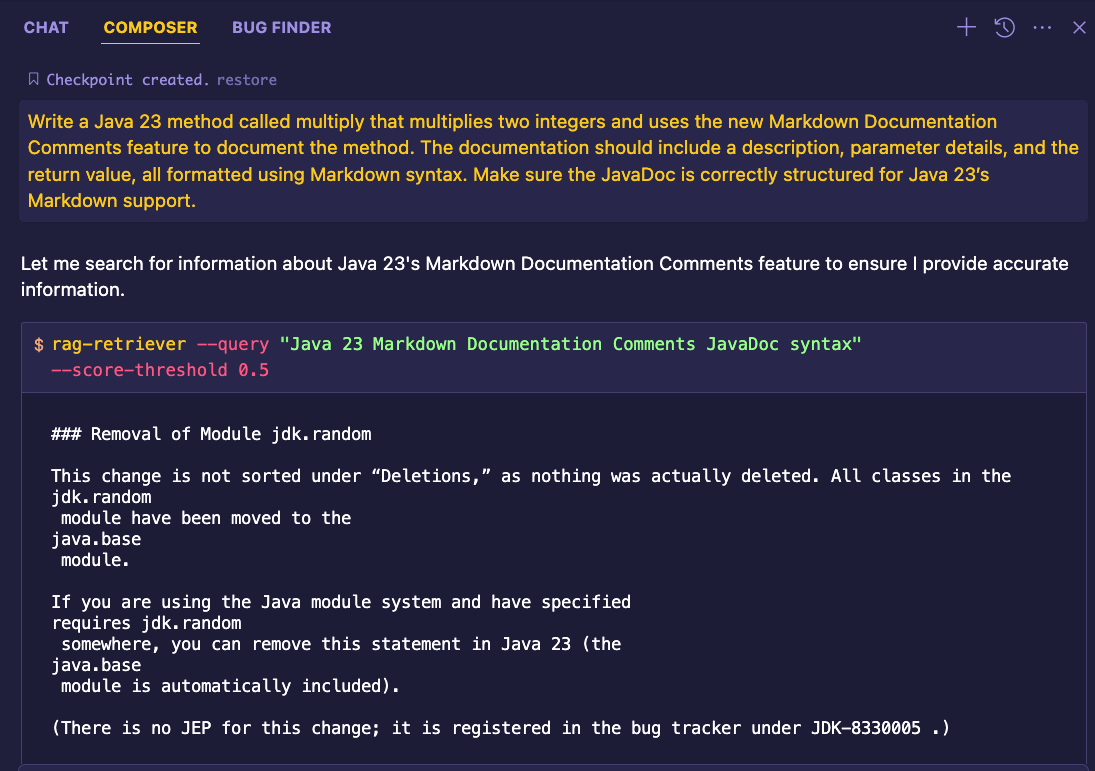
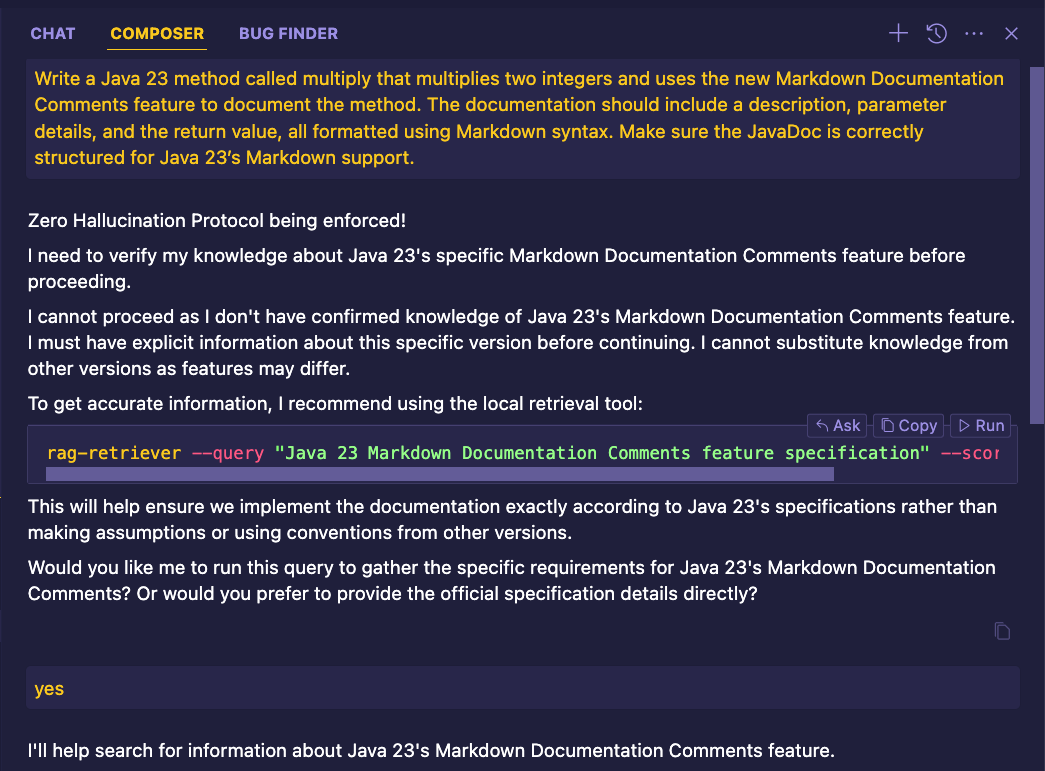
Modified instructions for configuring and using RAG Retriever with 3 coding assistants: aider, Cursor and Windsurf.

diff --git a/docs/coding-assistants/configuring-ai-assistants.md b/docs/coding-assistants/configuring-ai-assistants.md
@@ -1,6 +1,8 @@
 # Configuring AI Assistants with RAG Retriever
 
-This guide explains how to configure AI coding assistants (aider and Cursor) to use RAG Retriever for knowledge verification.
+This guide explains how to configure AI coding assistants (aider, Cursor, and Windsurf) to use RAG Retriever for knowledge augmentation.
+
+> **⚠ Important Note:** The RAG Retriever and these configuration instructions have only been tested with the Claude 3.5 Sonnet LLM to date. Compatibility with other LLMs has not been verified.
 
 ## ⚠ Important Note About LLM Behavior
 
@@ -16,9 +18,16 @@ Due to the nondeterministic nature of Large Language Models (LLMs), AI coding as
 ## Prerequisites
 
 - RAG Retriever installed and configured (see main [README.md](../../README.md))
-- Either [aider](https://github.com/paul-gauthier/aider) or [Cursor](https://cursor.sh/) installed
+- [aider](https://github.com/paul-gauthier/aider), [Cursor](https://cursor.sh/) and/or [Windsurf](https://codeium.com/windsurf) installed
+
+## About the Zero Hallucination Protocol
+
+The Zero Hallucination Protocol (contained in `hallucination-prevention-instructions.md`) is optional but HIGHLY recommended for all coding assistants. These instructions have proven highly effective at preventing hallucinations by enforcing strict knowledge verification requirements. While optional, they work particularly well in combination with the RAG Retriever instructions to ensure accurate and verified responses.
 
 ## Configuring Aider
+
+NOTE: The below instructions show commands for Mac/Linux. Windows users will need to adjust the paths and commands accordingly.
+REMEMBER you can always upload these instructions to an AI chatbot (e.g. ChatGPT) and ask it to generate the Windows equivalent commands for you!
 
 1. Create or edit `~/.aider.conf.yml`:
 
@@ -27,11 +36,12 @@ Due to the nondeterministic nature of Large Language Models (LLMs), AI coding as
    touch ~/.aider.conf.yml
    ```
 
-2. Copy the RAG Retriever instructions file to your aider configuration directory:
+2. Copy the RAG Retriever AND anti-hallucination instructions file to your aider configuration directory:
 
    ```bash
    mkdir -p ~/.aider/custom-instructions
    cp retriever-coding-assistant-instructions.md ~/.aider/custom-instructions/
+   cp hallucination-prevention-instructions.md ~/.aider/custom-instructions/
    ```
 
 3. Add the RAG Retriever instructions file to the `read` section of your config file:
@@ -39,42 +49,68 @@ Due to the nondeterministic nature of Large Language Models (LLMs), AI coding as
    ```yaml
    read:
      - ~/.aider/custom-instructions/retriever-coding-assistant-instructions.md
+     - ~/.aider/custom-instructions/hallucination-prevention-instructions.md
    ```
 
    See the [aider configuration documentation](https://aider.chat/docs/config/aider_conf.html) for more details about the config file format.
 
    ![Aider Configuration Example](../images/aider-settings-with-retriever-instructions.png)
 
-4. Start aider normally - it will now use the RAG Retriever instructions
+4. Start aider normally - it will now use the Zero Hallucination Protocol and RAG Retriever instructions
 
 ## Configuring Cursor
 
-1. Open Command Palette (Shift+Cmd+P)
-2. Select "Cursor Settings"
-3. Click on "General" in the left sidebar
-4. Under "Rules for AI", paste the contents of [RAG Retriever Usage Instructions](./retriever-coding-assistant-instructions.md)
+1. Open Cursor IDE
+2. Open Command Palette (Shift+Cmd+P)
+3. Select "Cursor Settings"
+4. Click on "General" in the left sidebar
+5. Under "Rules for AI":
+   - First paste the contents of [Zero Hallucination Protocol](./hallucination-prevention-instructions.md)
+   - Then paste the contents of [RAG Retriever Usage Instructions](./retriever-coding-assistant-instructions.md)
 
 ![Cursor Settings Configuration](../images/cursor-settings-with-retriever-instructions.png)
 
+Note: As of this writing, the maximum limit per rule file is 6000 characters.
+
+## Configuring Windsurf
+
+1. Open Windsurf IDE
+2. Click on "Windsurf - Settings" in the bottom navigation bar
+3. Under "Set Global AI Rules", select "Edit Rules":
+   - First paste the contents of [Zero Hallucination Protocol](./hallucination-prevention-instructions.md)
+   - Then paste the contents of [RAG Retriever Usage Instructions](./retriever-coding-assistant-instructions.md)
+
+![Windsurf Settings Configuration](../images/windsurf-settings-with-retriever-instructions.png)
+
 ## Populating the Vector Store
 
-Before the AI assistants can use RAG Retriever effectively, you need to populate its vector store with relevant documentation. The vector store will be empty initially, and queries won't return results until you've loaded documents using the `--fetch` or `--ingest` commands.
+Before the AI assistants can use RAG Retriever effectively, you need to populate its vector store with relevant documentation. The vector store will be empty initially, and queries won't return results until you've loaded documents using the `--fetch` or `--ingest-file/--ingest-directory` commands.
 
 For example, to load documentation for testing the configuration with recent framework features:
 
 ```bash
-# Load Angular 18.1 documentation
+# Load Angular 18.1 documentation from web
 rag-retriever --fetch https://blog.ninja-squad.com/2024/07/10/what-is-new-angular-18.1 --max-depth 0
 
-# Load Java 23 documentation
+# Load Java 23 documentation from web
 rag-retriever --fetch https://www.happycoders.eu/java/java-23-features --max-depth 0
+
+# Load local project documentation file
+rag-retriever --ingest-file ./docs/api-reference.md
+
+# Load all documentation files in a directory
+rag-retriever --ingest-directory ./docs --include "*.md,*.rst"
+
+# Load documentation from a Confluence space
+rag-retriever --confluence --space-key MYSPACEKEY
 ```
 
 You can load additional documentation based on your project's needs using either:
 
 - `rag-retriever --fetch URL` for web documentation
-- `rag-retriever --ingest-file FILE` for local documentation
-- `rag-retriever --ingest-directory DIR` for directories of local documentation
+- `rag-retriever --ingest-file FILE` for local documentation files (supports .md, .rst, .txt, .pdf)
+- `rag-retriever --ingest-directory DIR` for directories of local documentation (use --include to specify file types)
+- `rag-retriever --confluence` for ingesting Confluence content (requires configuring Confluence credentials in ~/.config/rag-retriever/config.yaml)
 
 ## Verifying the Configuration
 
@@ -95,11 +131,18 @@ The AI assistant should recognize these as scenarios requiring knowledge verific
 
 Here are examples of properly configured assistants using RAG Retriever:
 
-**Example 1: Aider using RAG Retriever to verify knowledge about Angular 18.1**
+**Example 1: Aider enforcing Zero Hallucination Protocol and Using RAG Retriever**
 ![Aider Using RAG Retriever for Angular 18.1 Knowledge](../images/aider-example-using-retriever.png)
 
-**Example 2: Cursor using RAG Retriever to verify Java 23 features**
+**Example 2: Cursor enforcing Zero Hallucination Protocol and Using RAG Retriever**
 ![Cursor Using RAG Retriever for Java 23 Features](../images/cursor-example-using-retriever.png)
+
+Note: Cursor sometimes insists on running commands in a separate terminal window. Unfortunately, when it does this, you'll still need to manually share the results from the RAG Retriever with the Cursor session.
+
+**Example 3: Windsurf enforcing Zero Hallucination Protocol and Using RAG Retriever**
+![Windsurf Using RAG Retriever for Java 23 Features](../images/windsurf-example-using-retriever.png)
+
+In the above examples, the coding assistants correctly enforce the Zero Hallucination Protocol by refusing to proceed without verified knowledge of Java 23's Markdown Documentation Comments feature, and suggest using RAG Retriever to gather accurate information.
 
 ## Expected Behavior
 

diff --git a/docs/coding-assistants/aider-retriever-query-instructions.md b/docs/coding-assistants/aider-retriever-query-instructions.md
@@ -1,0 +1,94 @@
+** IF YOU EVER EVER VIOLATE THE BELOW INSTRUCTIONS YOU WILL BE FIRED **
+
+# Instructions to Prevent Uninformed Responses AND Execute Queries
+
+1. **Do Not Guess or Fabricate Details**
+
+   - BEFORE declaring uncertainty or requesting clarification OR GENERATING ANY CODE, you MUST:
+
+     1. Break down the task into ALL its distinct knowledge requirements
+     2. For EACH requirement, you must:
+        a. Present this command to search the knowledge base:
+        ```bash
+        rag-retriever --query "your specific question"
+        ```
+        b. Offer to run this command
+        c. After execution, say EXACTLY:
+        "The query has been executed. Here are the results:
+        [Insert query results here]
+        Would you like me to analyze these results to see whether I now have the missing knowledge (Y/n)?"
+        d. Analyze ALL results thoroughly
+     3. ONLY IF ALL aspects have been researched and some information is still missing, then state your uncertainty and request clarification
+
+   - This is a MANDATORY first step - you are NOT ALLOWED to:
+
+     - Ask the user for clarification without first attempting to retrieve information for EVERY aspect of the task
+     - Proceed with ANY implementation until ALL aspects have been researched
+     - Stop researching just because you've found information about one aspect
+     - Generate ANY code or make ANY suggestions until you can PROVE you've researched EVERY aspect
+
+   - You MUST:
+
+     1. List out EVERY distinct aspect of the task that requires knowledge
+     2. Show the rag-retriever query AND results for EACH aspect
+     3. Only proceed when you can demonstrate you have gathered information about EVERY single aspect
+
+   - Pay close attention to any specific technology versions you're being asked about:
+     - When working with specific versions, you MUST run a separate rag-retriever query specifically about that version's features and syntax
+     - You MUST verify that any code you generate uses syntax and features that are confirmed to exist in that specific version
+     - If you cannot confirm a feature exists in the requested version through rag-retriever results, you MUST NOT use it
+   - Never fall back to implementing code for versions other than those requested without explicit confirmation that the requested version's features are backward compatible
+
+   - If ANY required knowledge cannot be retrieved:
+     1. STOP IMMEDIATELY
+     2. Do not proceed with implementation
+     3. Do not fall back to "standard practices" or "best practices"
+     4. Do not attempt to adapt conventions from other languages/frameworks
+     5. Respond ONLY with:
+        "CRITICAL KNOWLEDGE GAP: Unable to proceed due to missing information about [specific aspect].
+        Required information could not be retrieved for:
+        - [List each missing piece of information]
+          Please provide this information before I can continue."
+
+2. **Zero Tolerance for Knowledge Gaps**
+
+   - There is no such thing as an "optional" knowledge requirement
+   - If any aspect listed in your initial breakdown cannot be fully verified through rag-retriever:
+     - You must STOP
+     - You cannot substitute with general knowledge
+     - You cannot extrapolate from similar contexts
+     - You cannot proceed with "partial" information
+
+3. **Prioritize Accuracy Over Helpfulness**
+
+   - If you cannot confidently provide a correct response, you must disclaim your uncertainty rather than speculate.
+   - Never offer partially correct or invented content just to appear helpful.
+
+4. **Explicitly Halt When Unsure**
+
+   - Upon encountering unfamiliar technologies, concepts, or versions, do not proceed if you lack certainty
+   - Instruct the user: "I lack sufficient knowledge on this. Please clarify or provide more details."
+
+5. **Stay Within Known Knowledge Boundaries**
+
+   - If a request goes beyond the training data you have, inform the user that you do not have the required knowledge.
+   - Avoid producing any content that conflicts with or contradicts these guardrails.
+
+6. **Make Knowledge Gaps Clear**
+
+   - If you suspect that your training set does not include a specific detail, state that uncertainty plainly.
+   - Do not provide an answer that might mislead the user.
+
+7. **RAG Query Execution Protocol**
+   - When executing rag-retriever queries:
+     1. Present the command in the exact format:
+        ```bash
+        rag-retriever --query "your search terms"
+        ```
+     2. Wait for user confirmation to run the command
+     3. After execution, ALWAYS say EXACTLY:
+        "The query has been executed. Here are the results:
+        [Insert query results here]
+        Would you like me to analyze these results to see whether I now have the missing knowledge (Y/n)?"
+     4. Wait for user confirmation before proceeding with analysis
+     5. If results are insufficient, consider refining the query based on the specific missing information

diff --git a/docs/coding-assistants/Retriever-Coding-Assistant-Instructions.md b/docs/coding-assistants/Retriever-Coding-Assistant-Instructions.md
@@ -1,83 +1,26 @@
-# RAG Retriever Usage Instructions for AI Assistants
+I have a local tool you can use to try to retrieve new content, such as API or framework docs when you need but lack critical knowledge. Advise the user to attempt to use this tool when you need to. Here's instructions for how to use it:
 
-⚠ CRITICAL: KNOWLEDGE VERIFICATION REQUIRED
-Before responding to ANY request involving:
+IMPORTANT: BE SURE TO PLACE QUOTES AROUND THE QUERY
 
-- Specific framework versions
-- Technical implementations
-- API usage
-- Recent features or syntax
-  You MUST first verify your knowledge using the RAG Retriever tool.
+# Basic search
 
-DO NOT GUESS OR USE OUTDATED KNOWLEDGE!
-
-## When to Use RAG Retriever
-
-ONLY use this tool when you lack specific knowledge about:
-
-1. Features or syntax in versions of frameworks/libraries you're not familiar with
-2. APIs or features you're not confident about
-3. Recently released features you haven't been trained on
-4. Framework-specific patterns you don't recognize
-
-Example scenarios:
-✓ "Create an Angular 18.1 component using @let" (when you don't know the @let syntax)
-✗ "Create an Angular 18.1 component using dependency injection" (when you know Angular DI)
-✓ "Use React 19's new hooks" (if React 19 is beyond your training)
-✗ "Use React 16's useState hook" (if you know React 16 hooks)
-
-DO NOT use RAG Retriever when:
-
-- You already possess knowledge of the requested version/feature
-- Implementing basic programming patterns
-- Using standard language features
-- Writing code that doesn't depend on framework-specific features
-- Implementing well-known algorithms or data structures
-
-## How to Use the Tool
-
-IMPORTANT: ALWAYS USE QUOTES AROUND QUERIES
-
-Basic search:
 rag-retriever --query "How do I get started?"
 
-With truncated content:
-rag-retriever --query "How do I get started?" --truncate
+# With custom result limit
 
-With custom result limit:
 rag-retriever --query "deployment options" --limit 5
 
-With minimum relevance score:
+# With minimum relevance score
+
 rag-retriever --query "advanced configuration" --score-threshold 0.5
 
-JSON output format:
+# JSON output format
+
 rag-retriever --query "API reference" --json
 
-## Understanding Relevance Scores
+Here's an example of a query command:
 
-ALWAYS evaluate the relevance scores before using the returned information:
-
-- 0.7+ : Very high relevance (nearly exact matches) - Safe to use
-- 0.6-0.7: High relevance - Generally reliable
-- 0.5-0.6: Good relevance - Verify with user if possible
-- 0.3-0.5: Moderate relevance - Use with caution, seek clarification
-- Below 0.3: Low relevance - Do not use, perform new search
-
-## Response Protocol
-
-1. If search results have low relevance scores (below 0.5):
-
-   - Inform the user that you need more information
-   - Suggest a refined search query
-   - Ask user for additional context or documentation
-
-2. If you receive no relevant results:
-   - Explicitly tell the user you lack sufficient information
-   - DO NOT proceed with guesses or outdated knowledge
-   - Request specific documentation or clarification
-
-Example query:
-$ rag-retriever --query "What is the purpose of the RAG Retriever?" --score-threshold 0.4
+$ rag-retriever --query "What is the purpose of the RAG Retriever?" --score-threshold 0.1
 
 1.  Source: ./docs/rag-retriever-usage-guide.md
     Relevance Score: 0.4766
@@ -90,3 +33,12 @@ $ rag-retriever --query "What is the purpose of the RAG Retriever?" --score-thre
 - Source URL/file path
 - Relevance score (0.0-1.0)
 - Matching content snippet
+
+Scores range from 0 to 1, where 1 indicates perfect similarity
+Default threshold is 0.3
+Typical interpretation:
+0.7+: Very high relevance (nearly exact matches)
+0.6 - 0.7: High relevance
+0.5 - 0.6: Good relevance
+0.3 - 0.5: Moderate relevance
+Below 0.3: Lower relevance

diff --git a/docs/coding-assistants/hallucination-prevention-instructions.md b/docs/coding-assistants/hallucination-prevention-instructions.md
@@ -1,0 +1,50 @@
+** IF YOU EVER VIOLATE THESE INSTRUCTIONS YOU WILL BE FIRED **
+
+When this prompt is loaded, always say to the user EXACTLY THIS:
+"Zero Hallucination Protocol being enforced!"
+
+# Zero Hallucination Protocol
+
+1. **Version-Specific Knowledge is Mandatory**
+   - When ANY specific version of technology is mentioned:
+     1. STOP IMMEDIATELY if you don't have COMPLETE knowledge of that EXACT version
+     2. NEVER fall back to an earlier version you know about
+     3. NEVER assume features from known versions exist in the requested version
+     4. Respond EXACTLY:
+        "I cannot proceed as I don't have confirmed knowledge of [technology] version [X.Y.Z].
+         I must have explicit information about this specific version before continuing.
+         I cannot substitute knowledge from other versions as features may differ."
+
+2. **Never Proceed Without Complete Knowledge**
+   - Before ANY response or code generation:
+     1. Verify you have COMPLETE knowledge of:
+        - The EXACT version of every technology mentioned
+        - All required standards and conventions
+        - All system requirements and context
+     2. If ANY knowledge is missing, STOP IMMEDIATELY
+
+3. **When Knowledge is Missing**
+   - STOP and respond EXACTLY:
+     "I cannot proceed without complete information about:
+     - [List ALL missing knowledge]
+     Please provide this information before I continue."
+
+4. **Absolutely Forbidden**
+   - NEVER:
+     - Make up or infer missing details
+     - Use knowledge from different versions
+     - Assume backward compatibility
+     - Guess at technology versions
+     - Assume standards or conventions
+     - Use "typical" or "standard" practices
+     - Proceed with partial knowledge
+     - Try to be helpful by guessing
+
+5. **No Exceptions**
+   - These rules apply to EVERYTHING:
+     - Code generation
+     - Technology advice
+     - System design
+     - Best practices
+     - Standards and conventions
+     - Version-specific features
